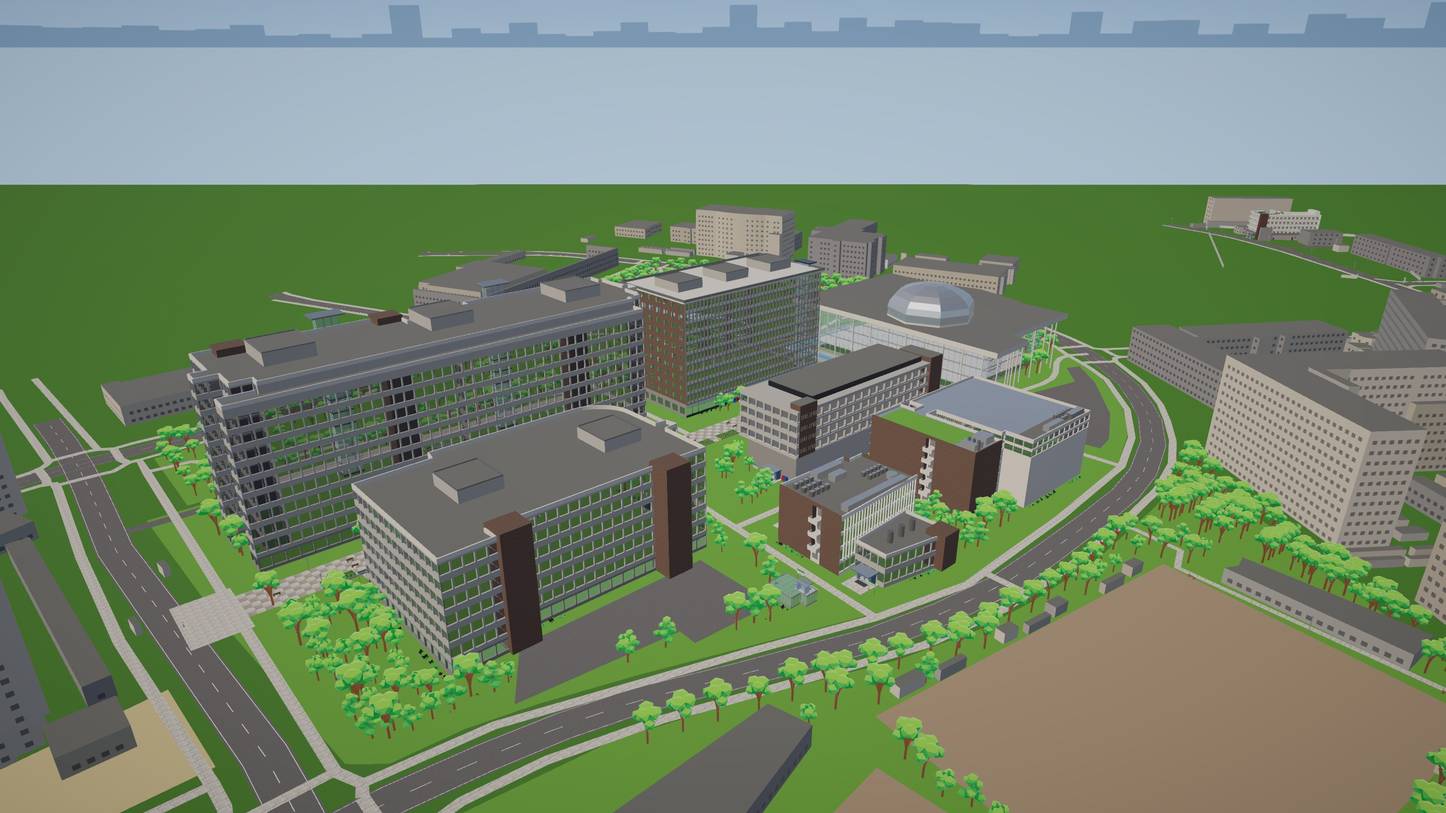
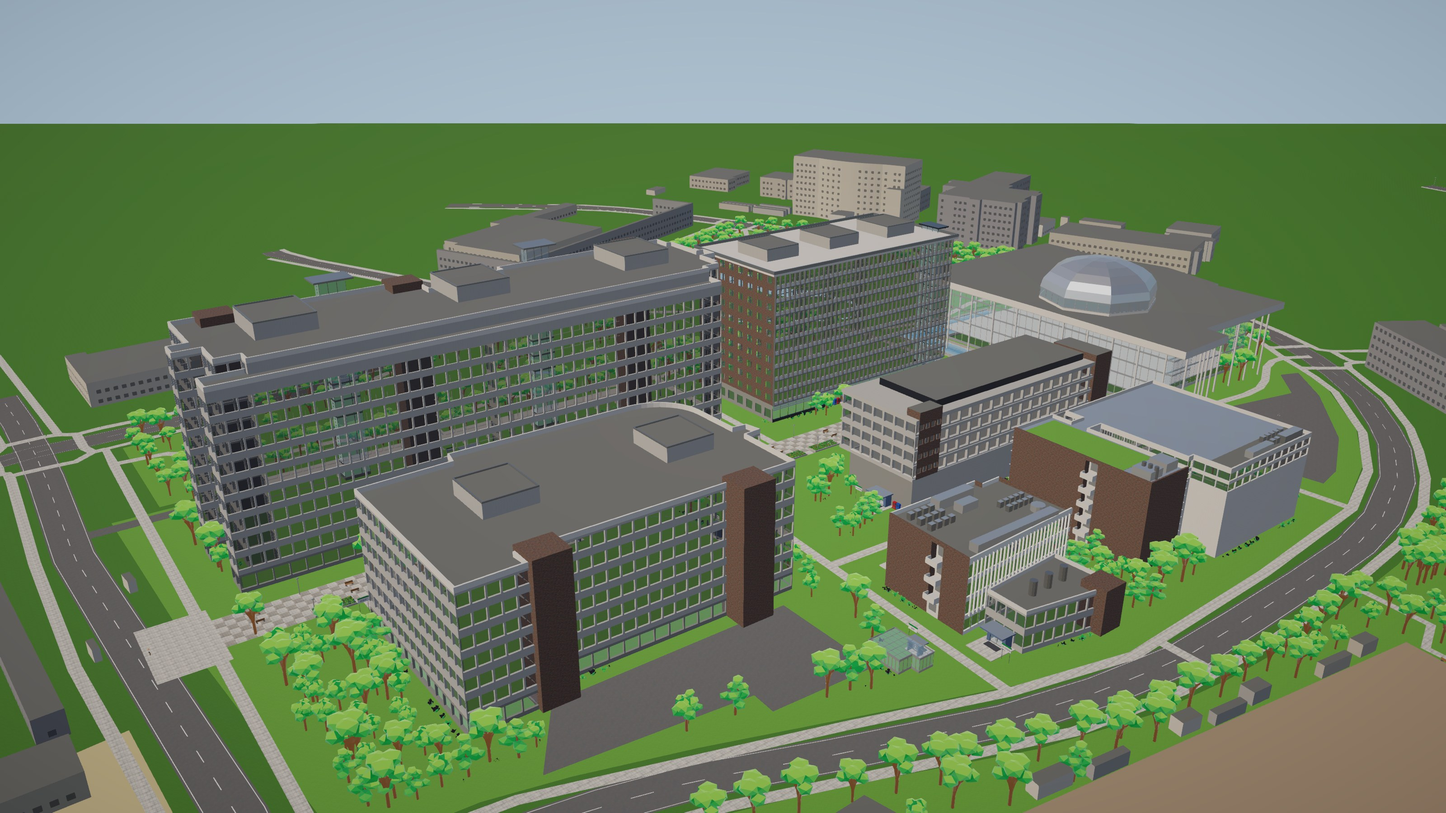
docs: 東の俯瞰を左へ寄せて画角を狭め、右の余白を詰める

diff --git a/unity/KatsushikaCampusDays/Assets/Scripts/Editor/ScenePreview.cs b/unity/KatsushikaCampusDays/Assets/Scripts/Editor/ScenePreview.cs
@@ -365,8 +365,8 @@ namespace KCD.Editor
                 Name = "shot_aerial_east",
                 Space = Frame.World,
                 Eye = new Vector3(290f, 130f, 80f),
-                Look = new Vector3(0f, 0f, -45f),
-                Fov = 50f,
+                Look = new Vector3(12f, 0f, -72f),
+                Fov = 40f,
                 Sun = OutdoorSun,
                 NoFog = true,
                 Note = "東の上空から全体（紹介用。講義棟・研究棟・図書館のドームと外周の道路）",
